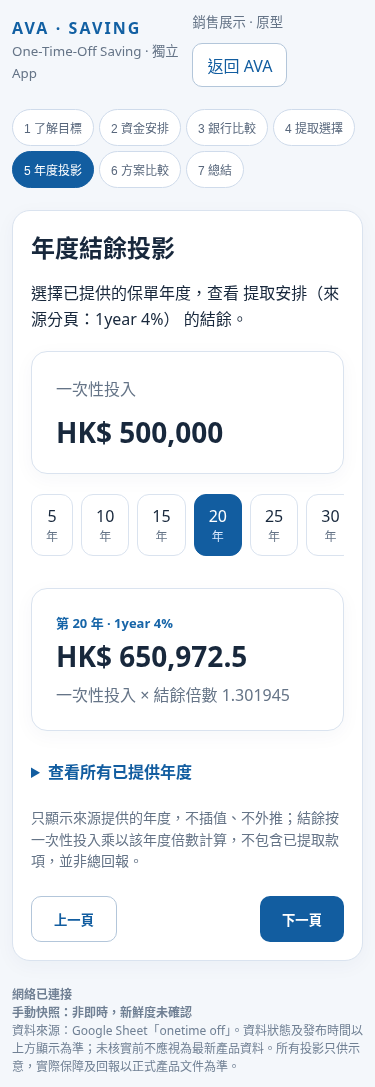
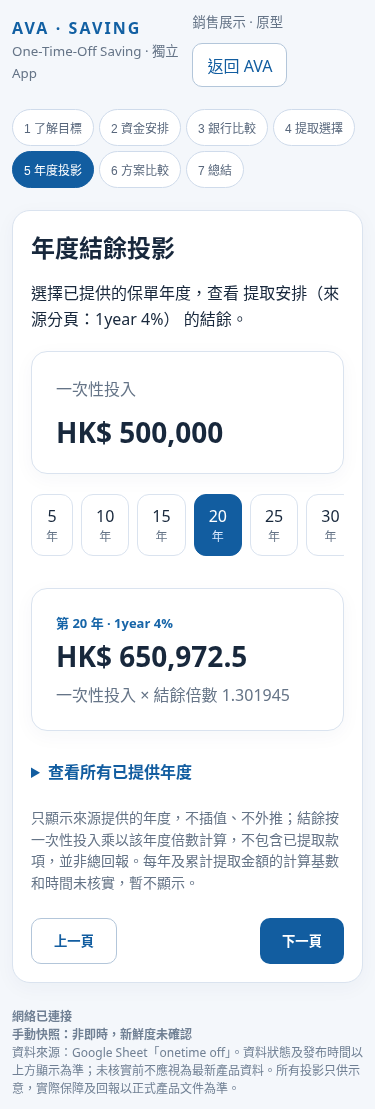
Prepare read-only Sheets integration and recovery

diff --git a/src/main.js b/src/main.js
@@ -5,7 +5,7 @@ let data=bundledData;
 const OFFICIAL_ENDPOINT=document.querySelector?.('meta[name="official-data-endpoint"]')?.content.trim() || null;
 let officialStatus={mode:"snapshot",publishedAt:null};
 function openOfficialCache(){return new Promise((resolve,reject)=>{const r=indexedDB.open("ava-one-time-off-official",1);r.onupgradeneeded=()=>r.result.createObjectStore("cache");r.onsuccess=()=>resolve(r.result);r.onerror=()=>reject(r.error);r.onblocked=()=>reject(Error("cache blocked"))})}
-const officialCache={async read(){const db=await openOfficialCache();try{return await new Promise((resolve,reject)=>{const tx=db.transaction("cache","readonly"),r=tx.objectStore("cache").get("official-v1");r.onsuccess=()=>resolve(r.result);r.onerror=()=>reject(r.error);tx.onabort=()=>reject(tx.error)})}finally{db.close()}},async write(value){const db=await openOfficialCache();try{await new Promise((resolve,reject)=>{const tx=db.transaction("cache","readwrite");tx.objectStore("cache").put(value,"official-v1");tx.oncomplete=()=>resolve();tx.onerror=()=>reject(tx.error);tx.onabort=()=>reject(tx.error)})}finally{db.close()}}};
+const officialCache={async read(endpoint){const db=await openOfficialCache();try{return await new Promise((resolve,reject)=>{const tx=db.transaction("cache","readonly"),r=tx.objectStore("cache").get("official-v1:"+endpoint);r.onsuccess=()=>resolve(r.result);r.onerror=()=>reject(r.error);tx.onabort=()=>reject(tx.error)})}finally{db.close()}},async write(value,endpoint){const db=await openOfficialCache();try{await new Promise((resolve,reject)=>{const tx=db.transaction("cache","readwrite");tx.objectStore("cache").put(value,"official-v1:"+endpoint);tx.oncomplete=()=>resolve();tx.onerror=()=>reject(tx.error);tx.onabort=()=>reject(tx.error)})}finally{db.close()}}};
 const names=["了解目標","資金安排","銀行比較","提取選擇","年度投影","方案比較","總結"];
 const goalLabels=["資金保留與流動性","提取現金流","長期資產累積","風險與回報取捨"];
 const state={step:0,capital:500000,term:20,plan:"rollover",bankRate:1.5,bankYears:20,goals:[]};
@@ -32,6 +32,7 @@ function userNote(){if(customPageId)return "";const key=state.step===0?"introNot
 
 const money=n=>Number(n).toLocaleString("en-HK",{maximumFractionDigits:2});
 const decimal=n=>Number(n).toLocaleString("en-HK",{maximumFractionDigits:6});
+const multiplierText=n=>Number(n).toLocaleString("en-HK",{maximumFractionDigits:15});
 // A tab name is a source identifier, not confirmation of withdrawal timing.
 const planLabel=p=>p.id==="rollover"?"自動滾存（不提取）":"提取安排（來源分頁："+p.sheet+"）";
 const plan=id=>data.plans.find(p=>p.id===id);
@@ -52,7 +53,7 @@ function entryMode(search){
  return "frontend";
 }
 function annualPresentation(p,v,project){
- return '<div class="anchor-metric"><span>一次性投入</span><strong>HK$ '+money(state.capital)+'</strong></div><div class="time-controls" aria-label="已提供的保單年度">'+p.balances.map(([year])=>'<button type="button" class="year-chip" data-year="'+year+'" aria-pressed="'+(year===state.term)+'">'+year+'<small>年</small></button>').join('')+'</div><div class="result-card"><span class="card-kicker">第 '+state.term+' 年 · '+escapeText(p.sheet)+'</span><strong>'+(project===null?'無此年度數據':'HK$ '+money(project))+'</strong><span>'+(v===null?'此安排沒有提供此年度。':'一次性投入 × 結餘倍數 '+decimal(v))+'</span></div><details class="annual-details"><summary>查看所有已提供年度</summary><div class="table-wrap" tabindex="0" role="region" aria-label="年度結餘表"><table><thead><tr><th>保單年度</th><th>每年提取百分比</th><th>結餘倍數</th><th>預計結餘 HK$</th></tr></thead><tbody>'+p.balances.map(([year,multiplier])=>'<tr><td>'+year+' 年</td><td>'+decimal(p.rate*100)+'%</td><td>'+decimal(multiplier)+'×</td><td>'+money(state.capital*multiplier)+'</td></tr>').join('')+'</tbody></table></div></details><p class="calculation-note">只顯示來源提供的年度，不插值、不外推；結餘按一次性投入乘以該年度倍數計算，不包含已提取款項，並非總回報。</p>';
+ return '<div class="anchor-metric"><span>一次性投入</span><strong>HK$ '+money(state.capital)+'</strong></div><div class="time-controls" aria-label="已提供的保單年度">'+p.balances.map(([year])=>'<button type="button" class="year-chip" data-year="'+year+'" aria-pressed="'+(year===state.term)+'">'+year+'<small>年</small></button>').join('')+'</div><div class="result-card"><span class="card-kicker">第 '+state.term+' 年 · '+escapeText(p.sheet)+'</span><strong>'+(project===null?'無此年度數據':'HK$ '+money(project))+'</strong><span>'+(v===null?'此安排沒有提供此年度。':'一次性投入 × 結餘倍數 '+multiplierText(v))+'</span></div><details class="annual-details"><summary>查看所有已提供年度</summary><div class="table-wrap" tabindex="0" role="region" aria-label="年度結餘表"><table><thead><tr><th>保單年度</th><th>每年提取百分比</th><th>結餘倍數</th><th>預計結餘 HK$</th></tr></thead><tbody>'+p.balances.map(([year,multiplier])=>'<tr><td>'+year+' 年</td><td>'+decimal(p.rate*100)+'%</td><td>'+multiplierText(multiplier)+'×</td><td>'+money(state.capital*multiplier)+'</td></tr>').join('')+'</tbody></table></div></details><p class="calculation-note">只顯示來源提供的年度，不插值、不外推；結餘按一次性投入乘以該年度倍數計算，不包含已提取款項，並非總回報。每年及累計提取金額的計算基數和時間未核實，暫不顯示。</p>';
 }
 function body(){
 const p=plan(state.plan),v=exact(p,state.term),project=v===null?null:state.capital*v;
@@ -63,7 +64,7 @@ case 1:return '<h1>你想點樣安排現有資金？</h1>'+amountField("capital"
 case 2:return '<h1>如果將資金留喺銀行？</h1>'+amountField("bankRate","假設銀行年利率（%）",state.bankRate,0)+amountField("bankYears","銀行情境年期（年）",state.bankYears,1)+'<div class="grid">'+metric("一次性本金","HK$ "+money(state.capital))+metric("假設 "+state.bankYears+" 年後銀行結餘","HK$ "+money(bank))+'</div><p class="note">銀行利率由用戶自行假設，不代表實際銀行報價；此處用複息情境作比較，非產品回報計法。</p>';
 case 3:return '<h1>你希望提取現金，還是留低滾存？</h1><label for="arrangement">選擇安排</label><select id="arrangement">'+data.plans.map(q=>'<option value="'+q.id+'" '+(state.plan===q.id?'selected':'')+'>'+escapeText(planLabel(q))+'</option>').join('')+'</select><p class="note">每年提取百分比來自 Sheet；開始提取年份、計算基數及實際付款日仍須正式條款確認。</p>';
 case 4:return '<h1>年度結餘投影</h1><p>選擇已提供的保單年度，查看 '+escapeText(planLabel(p))+' 的結餘。</p>'+annualPresentation(p,v,project);
-case 5:return '<h1>相同本金，不同安排</h1><p>一次性投入 HK$ '+money(state.capital)+'；所列為保單結餘，不包含已提取款項。</p><label for="term">比較保單年度</label><select id="term">'+years.map(y=>'<option value="'+y+'" '+(y===state.term?"selected":"")+'>'+y+' 年</option>').join("")+'</select><div class="table-wrap" tabindex="0" role="region" aria-label="各方案結餘比較表"><table><thead><tr><th>方案</th><th>結餘倍數</th><th>預計結餘 HK$</th></tr></thead><tbody>'+data.plans.map(q=>{const x=exact(q,state.term);return '<tr><td>'+escapeText(planLabel(q))+'</td><td>'+(x===null?"—":decimal(x)+'×')+'</td><td>'+(x===null?"未有數據":money(x*state.capital))+'</td></tr>'}).join("")+'</tbody></table></div><p class="calculation-note">累計已提取金額未計入；正式條款未核實，不能以結餘比較總回報。</p>';
+case 5:return '<h1>相同本金，不同安排</h1><p>一次性投入 HK$ '+money(state.capital)+'；所列為保單結餘，不包含已提取款項。</p><label for="term">比較保單年度</label><select id="term">'+years.map(y=>'<option value="'+y+'" '+(y===state.term?"selected":"")+'>'+y+' 年</option>').join("")+'</select><div class="table-wrap" tabindex="0" role="region" aria-label="各方案結餘比較表"><table><thead><tr><th>方案</th><th>結餘倍數</th><th>預計結餘 HK$</th></tr></thead><tbody>'+data.plans.map(q=>{const x=exact(q,state.term);return '<tr><td>'+escapeText(planLabel(q))+'</td><td>'+(x===null?"—":multiplierText(x)+'×')+'</td><td>'+(x===null?"未有數據":money(x*state.capital))+'</td></tr>'}).join("")+'</tbody></table></div><p class="calculation-note">累計已提取金額未計入；正式條款未核實，不能以結餘比較總回報。</p>';
 default:return '<h1>下一步：選擇合適安排</h1><div class="grid">'+metric("一次投入","HK$ "+money(state.capital))+metric("所選方案",planLabel(p))+metric("保單年度",state.term+" 年")+metric("該年結餘",project===null?"未有數據":"HK$ "+money(project))+metric("銀行年利率假設",decimal(state.bankRate)+"%")+metric("銀行情境年期",state.bankYears+" 年")+'</div><p>客人關注：'+(state.goals.length?state.goals.map(i=>goalLabels[i]).join('、'):'尚未選擇')+'</p><p data-edit-paragraph="2">可以同客人討論現金流需求、資金動用時間、承受能力及正式產品限制。</p><button class="secondary" id="print">列印／儲存 PDF</button><p class="note">本展示未包含保證／非保證回報分類、費用、退保限制或利益說明，正式使用前必須確認。</p>';
 }}
 function validateCurrent(){
@@ -98,7 +99,7 @@ if(entry==="admin"){
 if(!snapshotValid){$("#mode").textContent="資料不可用";$("#steps").innerHTML="";$("#app").innerHTML='<h1>資料暫時不可用</h1><p>資料快照未通過檢查，投影已停用。請聯絡管理人員確認資料來源。</p>';return}
 if(entry==="user" && !userReady){$("#mode").textContent="個人編輯";$("#steps").innerHTML="";$("#app").innerHTML='<h1>個人編輯不可用</h1><p>無法讀取本機資料；請檢查瀏覽器儲存設定。</p><a href="./">返回銷售展示</a>';return}
 
-const sourceNode=$("#source-status");if(sourceNode){const labels={snapshot:"手動快照：非即時，新鮮度未確認",cached:"本機快取：非即時",live:"已連接資料來源"};sourceNode.textContent=labels[officialStatus.mode]+(officialStatus.publishedAt?" · 發布時間 "+officialStatus.publishedAt:"")+(officialStatus.stale?" · 資料發布超過 7 日，請核實":"")+(officialStatus.error?" · 更新失敗":"")}
+const sourceNode=$("#source-status");if(sourceNode){const labels={snapshot:"手動快照：非即時，新鮮度未確認",cached:"本機快取：非即時",live:"已連接資料來源"};sourceNode.textContent=labels[officialStatus.mode]+(officialStatus.revision?" · 版本 "+officialStatus.revision.slice(0,12):"")+(officialStatus.publishedAt?" · 資料時間 "+officialStatus.publishedAt:"")+(officialStatus.stale?" · 資料時間超過 7 日，請核實":"")+(officialStatus.error?" · 更新失敗":"")}
 $("#mode").textContent=entry==="user"?"個人編輯 · 本機資料":userReady?"銷售展示 · 原型":"銷售展示 · 個人資料不可用";
 const activeUser=entry==="user"?userDraft:userSaved;
 const flow=[];for(let i=0;i<7;i++){flow.push({key:String(i),label:names[i]});activeUser.customPages.filter(p=>p.after===i&&(entry==="user"||p.visible)).forEach(p=>flow.push({key:p.id,label:p.title||"自訂頁"}))}
@@ -135,13 +136,18 @@ const arrangement=$("#arrangement");if(arrangement)arrangement.onchange=()=>{sta
 const term=$("#term");if(term)term.onchange=()=>{state.term=Number(term.value);render()};
 const print=$("#print");if(print)print.onclick=()=>window.print();
 }
+let refreshingOfficial=null;
+function refreshOfficial(){
+ if(refreshingOfficial)return refreshingOfficial;
+ refreshingOfficial=(async()=>{try{officialStatus=await loadOfficialData({snapshot:bundledData,endpoint:OFFICIAL_ENDPOINT,cache:officialCache});data=officialStatus.data;snapshotValid=validDataset(data);years=snapshotValid?[...new Set(data.plans.flatMap(p=>p.balances.map(r=>r[0])))].sort((a,b)=>a-b):[]}catch(e){snapshotValid=false}})().finally(()=>{refreshingOfficial=null});return refreshingOfficial;
+}
 if(typeof window!=="undefined" && typeof window.addEventListener==="function" && typeof document!=="undefined"){
  window.addEventListener("beforeunload",e=>{if(userDirty){e.preventDefault();e.returnValue=""}});
- (async()=>{try{officialStatus=await loadOfficialData({snapshot:bundledData,endpoint:OFFICIAL_ENDPOINT,cache:officialCache});data=officialStatus.data;snapshotValid=validDataset(data);years=snapshotValid?[...new Set(data.plans.flatMap(p=>p.balances.map(r=>r[0])))].sort((a,b)=>a-b):[]}catch(e){snapshotValid=false}try{const saved=await readUserData();if(saved!==undefined)userSaved=migrateUserData(saved);userDraft=cloneUser(userSaved);userReady=true}catch(e){userReady=false}render()})();
+ (async()=>{await refreshOfficial();try{const saved=await readUserData();if(saved!==undefined)userSaved=migrateUserData(saved);userDraft=cloneUser(userSaved);userReady=true}catch(e){userReady=false}render()})();
 }
 
 if(typeof window!=="undefined" && typeof navigator!=="undefined" && typeof document!=="undefined"){
  const network=()=>{const node=document.querySelector("#network-status");if(node)node.textContent=navigator.onLine?"網絡已連接":"離線模式：使用上次保存的程式及資料"};
- window.addEventListener("online",network);window.addEventListener("offline",network);network();
+ window.addEventListener("online",()=>{network();if(OFFICIAL_ENDPOINT)refreshOfficial().then(()=>{if(!userDirty)render()})});window.addEventListener("offline",network);network();
  if("serviceWorker" in navigator && (location.protocol==="https:" || location.hostname==="localhost" || location.hostname==="127.0.0.1"))navigator.serviceWorker.register("./sw.js",{updateViaCache:"none"}).then(reg=>reg.update()).catch(()=>{const node=document.querySelector("#network-status");if(node)node.textContent="離線功能暫時不可用"});
 }

diff --git a/CONTINUATION.md b/CONTINUATION.md
@@ -1,10 +1,11 @@
 # PR #1 continuation checklist
 
-Status: draft; not ready for Final Review. Continue the existing branch. Do not merge or deploy without Owner approval.
+Status: draft; **not ready for Final Review**. No merge or deployment. Baseline before this round: `449b80db65b72c4c7d5398185d3740e6f3d3f116`. The latest commit is the revision containing this file (`git rev-parse HEAD`); its SHA cannot be embedded in its own contents without changing it. The PR description records the final HEAD and CI links.
 
-- Text-only User Edit is the approved current release scope. Existing v4 media is preserved in local data and backups; User Edit offers no media editing controls. Existing frontend media is preserved.
-- Version 5 retains deleted custom pages for restoration; v1–v4 records and backups are accepted through validation and migration. Verify storage failure and quota recovery separately.
-- Finish field-level sales content audit, accessibility and full responsive screenshot review; verify custom page ordering and all restore scenarios.
-- Verify official withdrawal terms and authorized official-data backend; keep unsupported cash-flow calculations and live sync disabled.
-- Verify service-worker script upgrades, installed PWA, real devices and WebViews. Browser viewport checks are simulations.
-- Admin authentication remains unsupported and must not be enabled by URL flags.
+- Implemented: one-time contribution × exact published-year multiplier, four arrangements, year selector, optional annual table, source status and separate official/user caches. Unsupported withdrawal amounts remain disabled. The new read-only server component maps the four Sheets tabs, validates every row, produces a content revision, and requires host-supplied caller authorization and a reader token. Browser startup and reconnect use the existing adapter, with validated cache/snapshot fallback. See `docs/OFFICIAL-READ.md`.
+- Changed in this round: `server/sheets-readonly.mjs`, `src/official-data.mjs`, `src/main.js`, tests, two CI workflows, `DATA_CONTRACT.md`, `docs/OFFICIAL-READ.md`, this checklist and QA screenshots.
+- Local QA: all 60 rows and simulated devices, browser source failure/cache/recovery, text-only User Edit and backups, PWA offline/update and multi-tab, source/schema/security tests. See PR for exact run URLs and latest results; automated CI must be checked against final HEAD.
+- BLOCKED: an Owner-authorized same-origin HTTPS service, its caller authorization, viewer identity and read-only token provider; actual app-to-Sheet read and live deployment are not verified. See the exact configuration steps in `docs/OFFICIAL-READ.md`. Do not modify production Sheet or GAS.
+- BLOCKED: cash-flow commencement, percentage base, frequency and timing need authoritative One-Time-Off terms. `DATA_CONTRACT.md` contains the HK$500,000 worked example. No estimated payouts, withdrawal totals or extra subtraction are enabled.
+- NOT TESTED: physical iPad, HONOR Magic V5 folded/unfolded, installed PWA and WebViews; browser viewports are simulations. Complete accessibility and storage quota/failure checks and Platform integration verification before release. Admin remains unsupported.
+- Mother Rules inspected at Platform main `a12beaea002df9ae13e676f890c16951d4f21b28`; this is not a Platform integration sign-off. Text-only User Edit remains the scope; historical user media and backups remain preserved.

diff --git a/docs/OFFICIAL-READ.md b/docs/OFFICIAL-READ.md
@@ -1,0 +1,13 @@
+# One-Time-Off read-only source integration
+
+The 5Pay frontend uses its own GAS `bootstrap`, `version`, `content` and `returns` actions and local cache. That endpoint serves a different product and its five-year calculation and strategy rows must not be used for One-Time-Off. No One-Time-Off GAS deployment or endpoint was found or changed.
+
+`server/sheets-readonly.mjs` is a server-side integration component, not a deployed service. It reads only A:C of the four named tabs in a single Google Sheets API `values:batchGet` GET, validates the exact headers, rate in every row, tab names, ascending exact years and positive multipliers, then returns the existing v1 envelope. Its SHA-256 revision covers the normalized dataset; `publishedAt` is the time of that source read, not a product publication date. The browser requests an approved same-origin HTTPS endpoint at startup and on reconnect; it validates the envelope, checks cached revision consistency, caches it separately from User data, and falls back to cache or snapshot with a visible status. A read time older than seven days triggers a warning; it is not an official expiry.
+
+## Deployment prerequisites and authorization
+
+1. The Owner must select and authorize an independently operated same-origin HTTPS service and its caller authentication/authorization policy. Mount `officialReadHandler` behind that gateway and supply an `authorize(req)` implementation; the module refuses to construct a handler without one. Its 403 and 503 responses reveal no credentials.
+2. Provide a server-only, short-lived Google OAuth access token with `https://www.googleapis.com/auth/spreadsheets.readonly` scope via `getAccessToken()`, for an identity granted viewer access to the specified Sheet. Token acquisition, refresh, secret storage, audience/session authentication, rate limits and infrastructure are responsibilities of that service. Never include a token in frontend code, URLs, logs or browser storage.
+3. Set the app's `official-data-endpoint` meta value to the authorized same-origin HTTPS route in the deployment build. Check source authentication, actual permissions, data, CORS/gateway behavior, revision and network/offline behavior end-to-end before describing it as live. Deployment requires separate Owner approval. Do not change the Sheet or existing GAS project.
+
+No credential, service or endpoint has been configured here. Tests use a simulated Sheets API and endpoint; Google access from this environment is denied by network policy. The connected Sheets tool's point-in-time read is not an app runtime credential. Cache integrity depends on the authorized server and browser environment; neither schema checks nor local cache prove provenance.

diff --git a/DATA_CONTRACT.md b/DATA_CONTRACT.md
@@ -38,3 +38,9 @@ local cache and client schema checks alone cannot establish provenance.
 ## Deployment configuration
 
 `index.html` has an empty `official-data-endpoint` meta value. A deployment can set it to an authorized same-origin HTTPS endpoint returning the adapter's version 1 envelope. Startup then attempts a read and validates and caches the response; failures use a validated cache or the bundled snapshot and are labelled. No backend is supplied or configured here, and this setting does not establish source authenticity. No live sync has been verified. The four snapshot tables were compared with Sheet A1:C100 on 2026-11-11 (Hong Kong time).
+
+## Unresolved cash-flow rules: Owner verification
+
+The Sheet's column says “annual withdrawal percentage”, but it does not establish the commencement date/year, whether the percentage applies to original contribution, opening balance or another base, the payment frequency within a year, timing relative to the valuation date, or treatment of partial years and prior withdrawals. The 5Pay strategy terms and five-year base are for another product and are not evidence for these rules. No other One-Time-Off product terms were found in the available repository and Drive search.
+
+For illustration of the missing rule only: with HK$500,000, tab `1year 4%`, and its published year-5 multiplier 0.79327, the supported remaining balance is HK$396,635. If 4% were applied to the original HK$500,000, a hypothetical amount would be HK$20,000; if applied to HK$396,635, it would be HK$15,865.40. Neither is an official withdrawal calculation, and the latter balance is not established as the correct payment base. Please verify the start, base, frequency and timing with product documentation before enabling amounts or cumulative totals. Do not subtract either hypothetical figure from the published balance.
